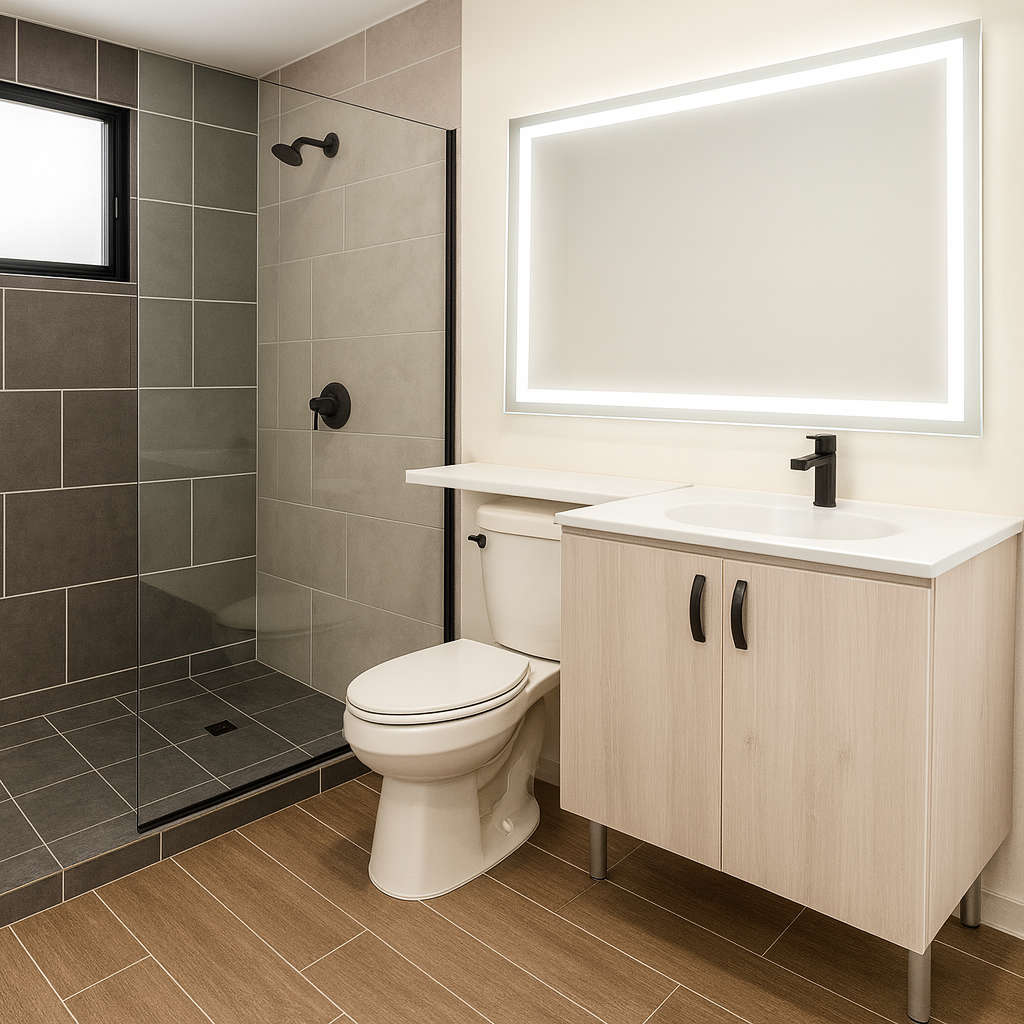
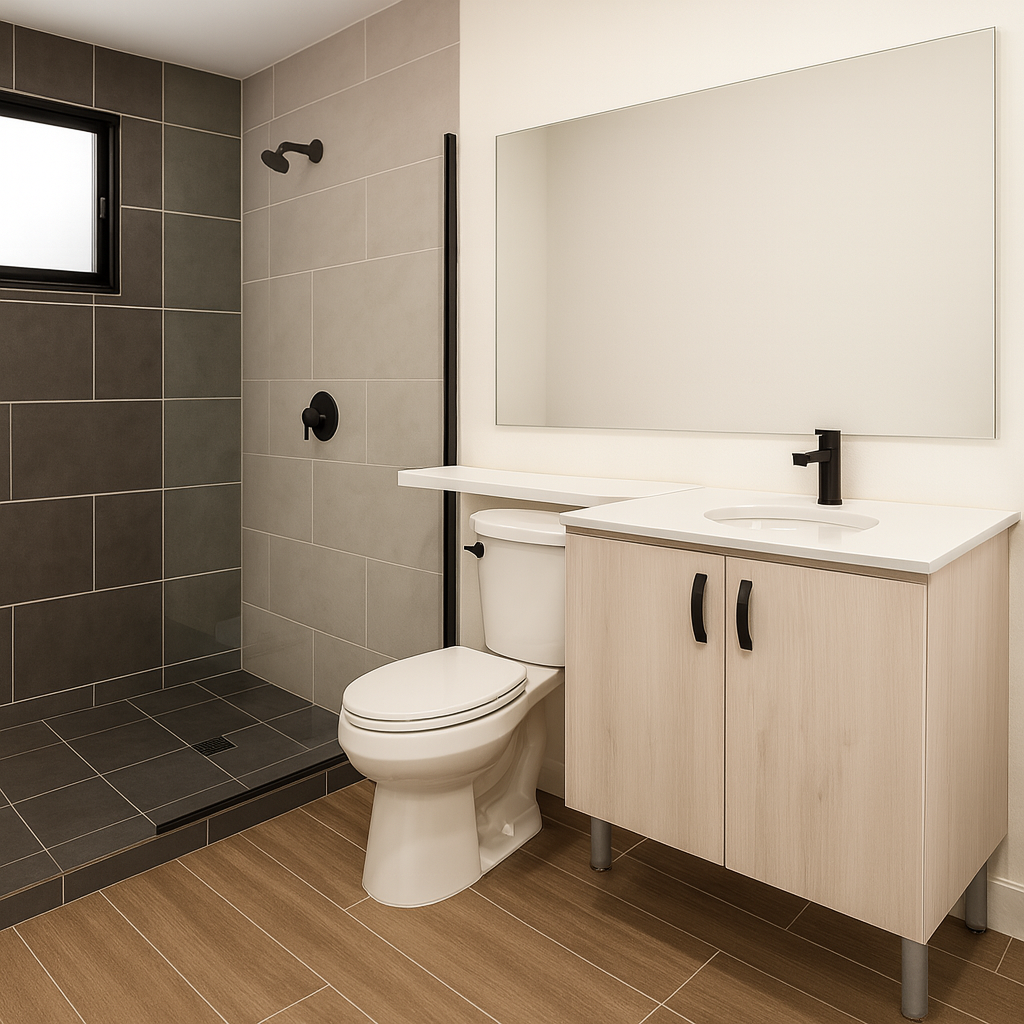
colores y precios

diff --git a/src/pages/presentacion-aritek.jsx b/src/pages/presentacion-aritek.jsx
@@ -27,13 +27,13 @@ const changes = [
   },
   {
     title: 'Cambio de color de puertas internas y clósets',
-    image: '/images/render-puertas-internas.png',
+    image: '/images/puertas-internas.png',
     note: 'Se personalizó el color de los clósets y puertas internas para unificar el diseño interior.',
     cost: '$500.000',
   },
   {
     title: 'Cambio de guardaescobas de 8 cm a 10 cm',
-    image: '/images/render-pisos-general.png',
+    image: '/images/guardaescobas2.png',
     note: 'Se optó por un guardaescobas de 10 cm de alto en lugar del original de 8 cm. Este cambio tiene un mayor costo debido a que el guardaescobas de 8 cm venía en packs con descuento. El nuevo guardaescobas de 10 cm se cotiza por unidad sin descuentos.',
     cost: '$1.087.900',
   },
